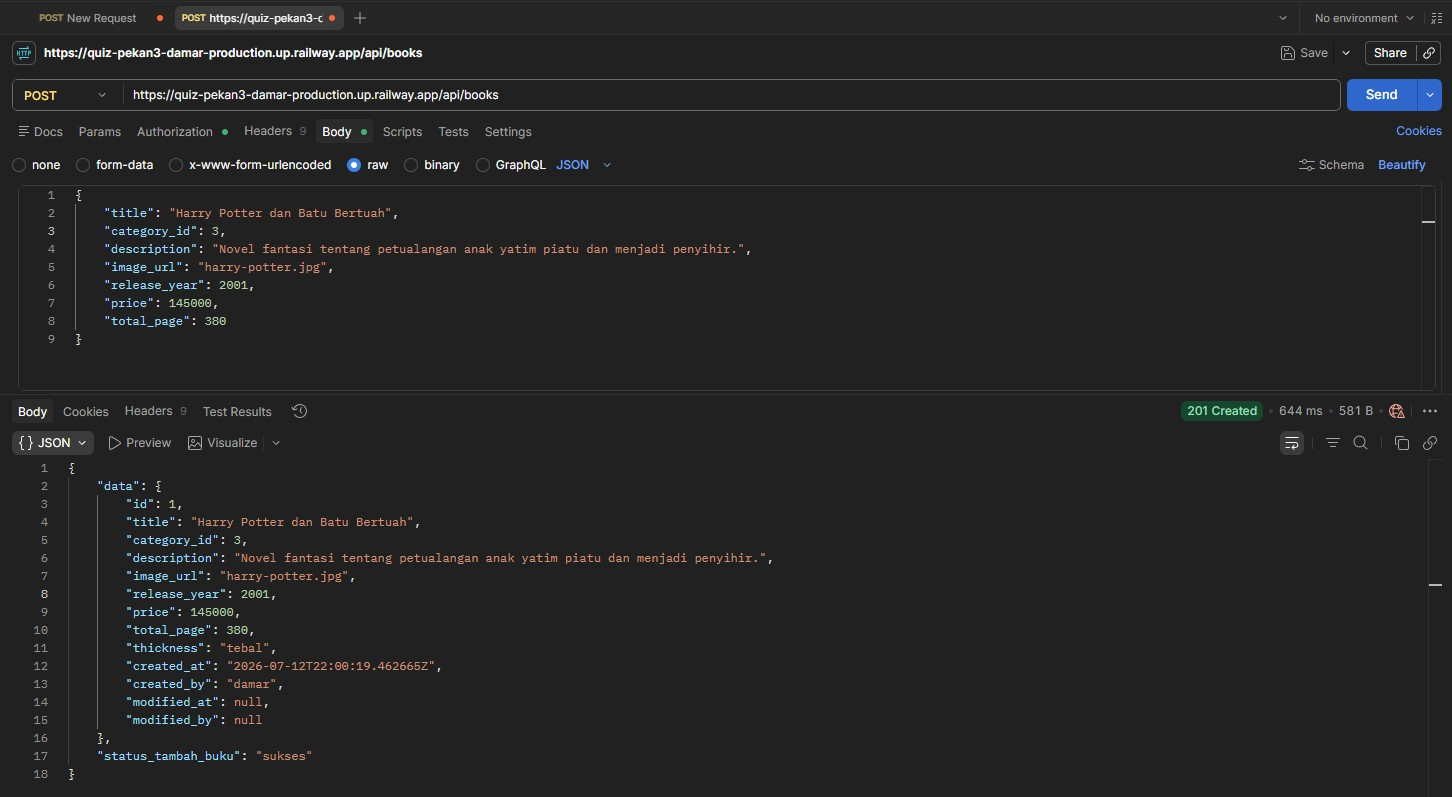
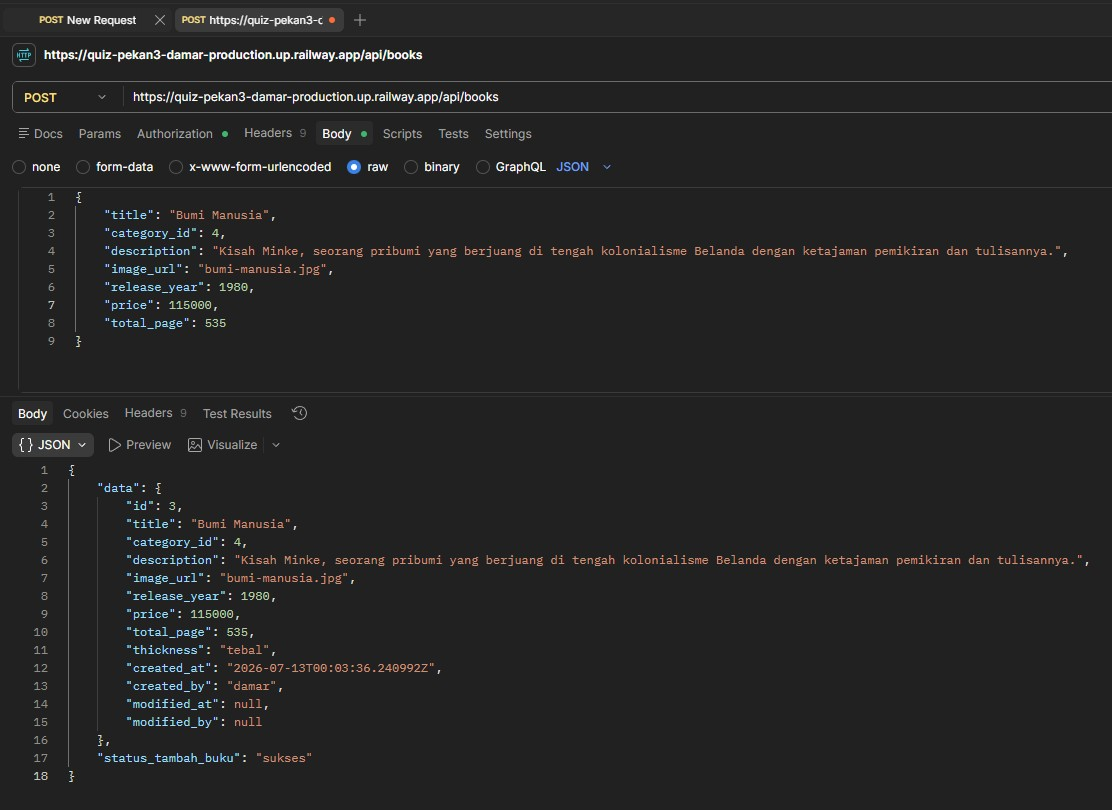
Tambahan readme

diff --git a/README.md b/README.md
@@ -1,7 +1,7 @@
 
 ## Quiz Pekan 3 Damar - RESTful API Golang
 
-### Fitur pada project quiz ini,
+### Fitur pada project ini,
 
 1. Proses Autentikasi - Register dan Login dengan JWT.
 
@@ -9,7 +9,36 @@
 
 3. CRUD data buku yang berelasi terhadap data kategori dan validasi tahun (1980-2024).
 
+---
+
+![Go Version](https://img.shields.io/badge/Go-1.22+-00ADD8?style=flat&logo=go)
+![Gin Framework](https://img.shields.io/badge/Gin-Framework-red?style=flat)
+![PostgreSQL](https://img.shields.io/badge/PostgreSQL-Data-blue?style=flat)
+![Auth](https://img.shields.io/badge/JWT-Token-green?style=flat)
+
+### Daftar Path (Endpoint)
+
+---
+
+| Method | Path | Deskripsi End point |
+| :--- | :--- | :--- |
+| `GET` | `/categories` | Menampilkan semua kategori |
+| `GET` | `/categories/:id` | Detail kategori berdasarkan ID |
+| `POST` | `/categories` | Menambah kategori baru |
+| `PUT` | `/categories/:id` | Mengupdate kategori |
+| `DELETE` | `/categories/:id` | Menghapus kategori |
+| `GET` | `/categories/:id/books` | Menampilkan buku dalam kategori tertentu |
+| `GET` | `/books` | Menampilkan semua buku |
+| `GET` | `/books/:id` | Detail buku berdasarkan ID |
+| `POST` | `/books` | Menambah buku baru |
+| `PUT` | `/books/:id` | Mengupdate buku |
+| `DELETE` | `/books/:id` | Menghapus buku |
+
+---
+
 ### Cara Penggunaan
+
+---
 
 Sebelum melakukan request ke fitur CRUD baik buku maupun kategori wajib melakukan registrasi dan kemudian login.
 Hasil dari login nantinya mendapat token yang dapat digunakan untuk mengakses CRUD buku ataupun kategori.
@@ -58,7 +87,7 @@ Langkah memulai-nya:
 
 ---
 
-## Experimen
+## Hasil Uji Coba
 
 ### 1. /api/categories - Method yang digunakan adalah get. Api ini digunakan untuk menampilkan seluruh kategori
 <p align="left">
@@ -80,7 +109,14 @@ Langkah memulai-nya:
   <img src="gambar-dokumentasi-quiz/9-Quiz-Pekan3-Damar-Get-By-Id-Kategori-Buku.jpg" alt="CRUD Kategori" width="700"/>
 </p>
 
-### 4. /api/categories/:id Method yang digunakan adalah delete. Api ini digunakan untuk menghapus kategori.
+### 4. localhost:8080/api/categories/:id Method yang digunakan adalah PUT.
+
+<p align="left">
+  <strong>METHOD PUT - Update Kategori Berdasarkan ID</strong><br>
+  <img src="gambar-dokumentasi-quiz/1-Proses-Update-Kategori.jpg" alt="CRUD Kategori" width="700"/>
+</p>
+
+### 5. /api/categories/:id Method yang digunakan adalah delete. Api ini digunakan untuk menghapus kategori.
 
 <p align="left">
   <strong>METHOD DELETE - Menghapus Kategori Buku</strong><br>
@@ -91,19 +127,52 @@ Langkah memulai-nya:
   <img src="gambar-dokumentasi-quiz/15-Quiz-Pekan3-Damar-Mencoba-Menghapus-Kategori-yang-Tidak-Tersedia.jpg" alt="CRUD Buku" width="700"/>
 </p>
 
-### 5. /api/categories/:id/books Method yang digunakan adalah get.  Api ini digunakan untuk menampilkan buku yang tersedia berdasarkan ketegori tertentu.
+### 6. /api/categories/:id/books Method yang digunakan adalah get.  Api ini digunakan untuk menampilkan buku yang tersedia berdasarkan ketegori tertentu.
 
 <p align="left">
   <strong>METHOD - GET - Melihat detail buku berdasarkan kategori bukunya.</strong><br>
   <img src="gambar-dokumentasi-quiz/1-lihat-detail-buku-by-id-kategori.jpg" alt="Skema Database" width="800"/>
 </p>
 
-### 5. /api/categories/:id/books Method yang digunakan adalah get.  Api ini digunakan untuk menampilkan buku yang tersedia berdasarkan ketegori tertentu.
+### 7. /api/books  Method yang digunakan adalah get.  Api ini digunakan untuk menampilkan buku yang tersedia berdasarkan ketegori tertentu.
 
 <p align="left">
-  <strong>METHOD - GET - Melihat detail buku berdasarkan kategori bukunya.</strong><br>
-  <img src="gambar-dokumentasi-quiz/1-lihat-detail-buku-by-id-kategori.jpg" alt="Skema Database" width="800"/>
+  <strong>METHOD - GET - Melihat semua buku.</strong><br>
+  <img src="gambar-dokumentasi-quiz/12-Quiz-Pekan3-Damar-Get-Semua-Buku.jpg" alt="Skema Database" width="1200"/>
 </p>
 
+### 8. /api/books Method yang digunakan adalah post.  Api ini digunakan untuk menambahkan buku.
+
+<p align="left">
+  <strong>METHOD - POST - Tambah buku.</strong><br>
+  <img src="gambar-dokumentasi-quiz/10-Quiz-Pekan3-Damar-Tambah-Buku.jpg" alt="Skema Database" width="1200"/>
+</p>
+
+### 9. /api/books/:id Method yang digunakan adalah get. Api ini digunakan untuk menampilkan detail buku.
+
+<p align="left">
+  <strong>METHOD - GET - Detail buku berdasarkan ID.</strong><br>
+  <img src="gambar-dokumentasi-quiz/11-Quiz-Pekan3-Damar-Get-Buku-Berdasarkan-Id.jpg" alt="Skema Database" width="1200"/>
+</p>
+
+<p align="left">
+  <strong>METHOD - GET - Handle ID Buku jika Tidak ditemukan.</strong><br>
+  <img src="gambar-dokumentasi-quiz/5-Quiz-Pekan3-Damar-Cek-Get-Data-Buku-berdasarkan-ID-Jika-Buku-Tidak-Ada.jpg" alt="Skema Database" width="1200"/>
+</p>
+
+### 10. Buatlah validasi untuk api buku mengikuti ketentuan berikut. -> validasi untuk memastikan bahwa release_year hanya berisi inputan minimal 1980 dan maksimal 2024.
+
+<p align="left">
+  <strong>METHOD - POST - Tambah Buku namun tahun rilisnya tahun 1901.</strong><br>
+  <img src="gambar-dokumentasi-quiz/1-release-year-buku.jpg" alt="Skema Database" width="1200"/>
+</p>
+
+---
+
+<footer>
+  <p align="center">
+    @Damar Djati Wahyu Kemala 2026
+  </p>
+</footer>
 
 